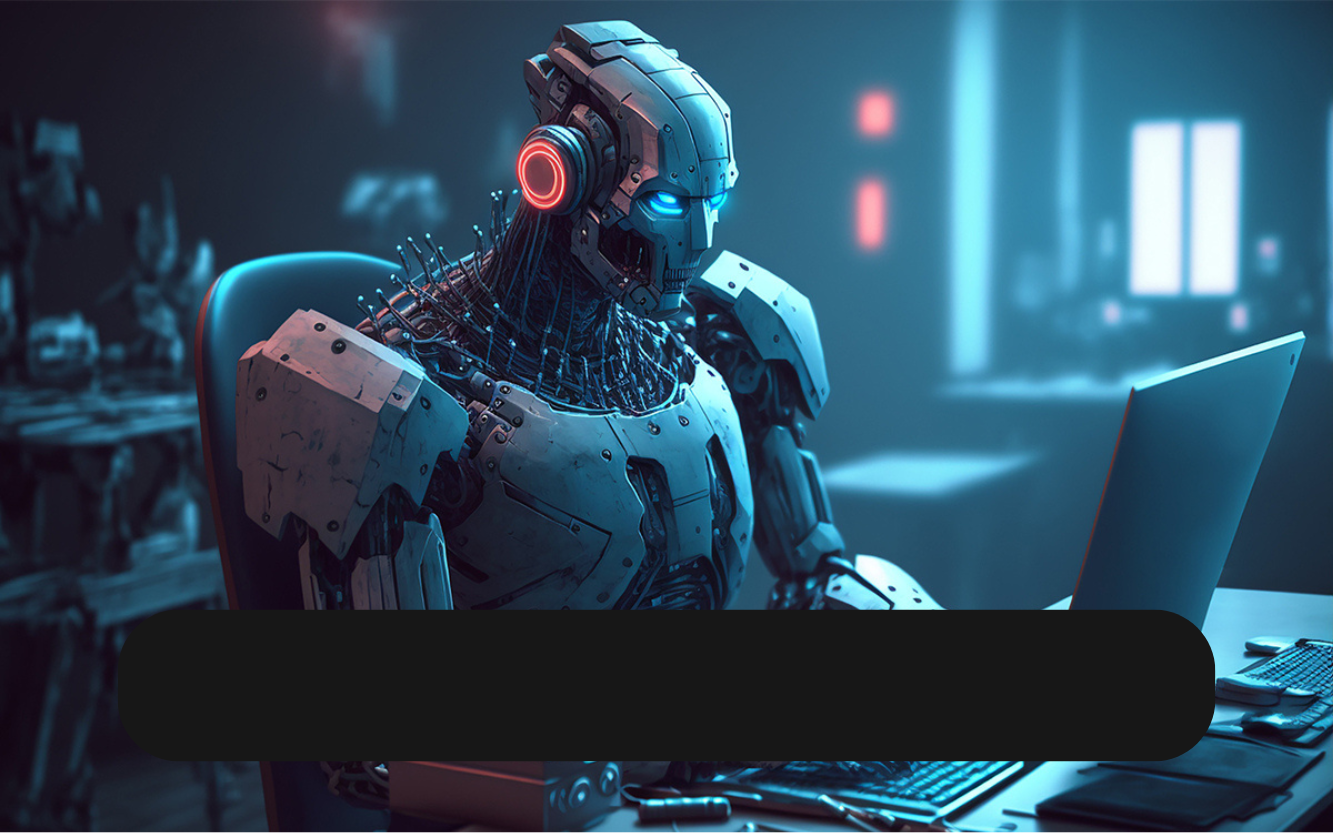
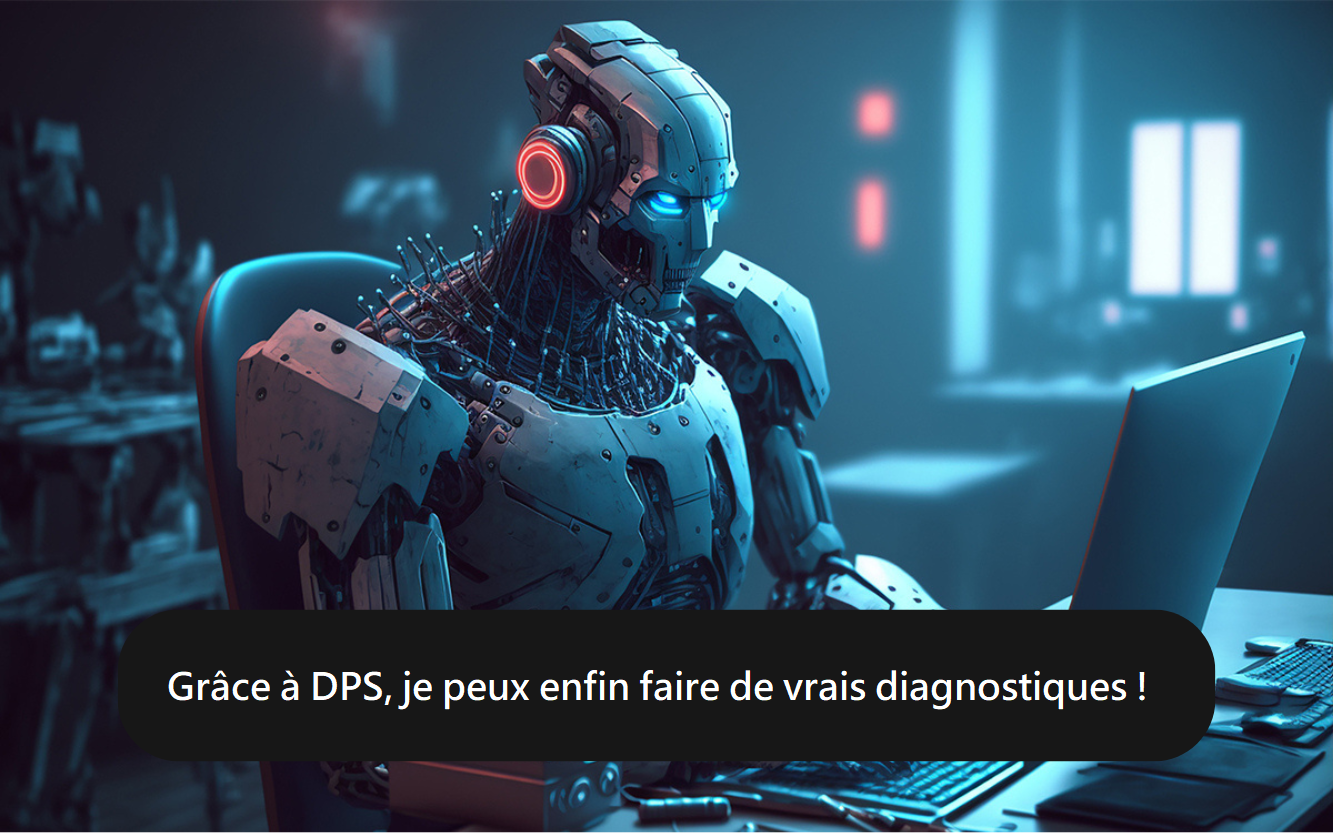
le dernier pour de vrai c'est promis

Changed region(s): [[0.123, 0.8115, 0.8612, 0.8427]]

diff --git a/assets/style.css b/assets/style.css
@@ -60,5 +60,5 @@ body{
     src: url("fonts/unicode.palatino.ttf");
 }
 /* body {
-    font-family: "Alien";
+    font-family: "SdA_Title";
 } */

diff --git a/dash_dps.py b/dash_dps.py
@@ -1,5 +1,5 @@
 from dash import Dash, html,page_container, callback, Input, Output
-import dash_core_components as dcc
+from dash_core_components import Location
 import dash_bootstrap_components as dbc
 
 # Création de l'application Dash
@@ -11,7 +11,7 @@ app._favicon = (r"\assets\favicon.ico")
 # Créez la mise en page
 app.layout = dbc.Container(
     [
-        dcc.Location(id='url'),
+        Location(id='url'),
         dbc.Row(className="g-0 gy-1"),
 
         #------------------------Nav Bar--------------------------#
@@ -30,8 +30,7 @@ app.layout = dbc.Container(
                                 html.Hr(style={"color":"white"},className="m-0 mb-1"),
                                 dbc.Row([html.H4("", className = "text-white text-center", id = "Nav_nom_page")])
                             ],
-                            className="mx-auto"),
-                        dbc.NavItem(dbc.NavLink("Informations", href="/informations",className="text-white fs-4")),
+                            className="mx-auto"),  
                         dbc.DropdownMenu(
                             children=[
                                 dbc.DropdownMenuItem("Diabète", href = "/diabete",className="text-black"),
@@ -43,8 +42,13 @@ app.layout = dbc.Container(
                             in_navbar = True,
                             align_end = True,
                             label = "Tests",
-                            className="text-light me-4 fs-4"
-                            )
+                            className="text-light fs-5"
+                            ),                    
+                        html.A(
+                            href= "/informations",
+                            children=[html.Img(src = r"\assets\images\logo_info.png", height="50px")],
+                            className="text-white fs-5 me-4"
+                            ),
                         ],
                         direction="horizontal",
                         gap=3)

diff --git a/pages/Accueil.py b/pages/Accueil.py
@@ -1,6 +1,4 @@
-from dash import Dash, html, dcc,register_page
-import pandas as pd
-import plotly.express as px
+from dash import html,register_page
 import dash_bootstrap_components as dbc
 
 # Enregistrement de la page
@@ -185,10 +183,10 @@ layout = dbc.Container([
                 dbc.Col(width = 3),
                 dbc.Col(dbc.Carousel(
                             items=[
-                                {"key": "1", "caption" : "DPS, un ami, un confident, un amour de technologie." , "src": r"/assets\images\dr_group.png"},
-                                {"key": "2", "caption" : "Avant DPS, j'avais peur de mal diagnostiquer.", "src": r"/assets\images\dr_soucis.png"},
-                                {"key": "3", "caption" : "Grâce à DPS, je peux enfin faire de vrais diagnostiques !", "src": r"/assets\images\dr_GPT.png"},
-                                {"key": "4", "caption" : "Avec DPS, la chasse aux maladies chroniques est facile.", "src": r"\assets\images\Dr_chat.png"},
+                                {"key": "1", "src": r"/assets\images\dr_group.png"},
+                                {"key": "2", "src": r"/assets\images\dr_soucis.png"},
+                                {"key": "3", "src": r"/assets\images\dr_GPT.png"},
+                                {"key": "4", "src": r"\assets\images\Dr_chat.png"},
                             ],
                             controls=True,
                             indicators=True,

diff --git a/generique_page_maladie.py b/generique_page_maladie.py
@@ -1,7 +1,6 @@
-from dash import Dash, html, dcc, Input, Output, State, callback
+from dash import html
 # from dash_dps import app
 import numpy as np
-import pandas as pd
 import plotly.express as px
 import dash_bootstrap_components as dbc
 import formulaire

diff --git a/pages/Informations.py b/pages/Informations.py
@@ -1,6 +1,4 @@
-from dash import Dash, html, dcc,register_page
-import pandas as pd
-import plotly.express as px
+from dash import html, register_page
 import dash_bootstrap_components as dbc
 
 # Enregistrement de la page

diff --git a/pages/Coeur.py b/pages/Coeur.py
@@ -1,5 +1,4 @@
 from dash import register_page, callback, Input, Output, State, html, ALL
-import dash_bootstrap_components as dbc
 import generique_page_maladie
 import pandas as pd
 

diff --git a/pages/Foie.py b/pages/Foie.py
@@ -1,5 +1,4 @@
 from dash import register_page, callback, Input, Output, State, html, ALL
-import dash_bootstrap_components as dbc
 import generique_page_maladie
 import pandas as pd
 

diff --git a/pages/Reins.py b/pages/Reins.py
@@ -1,5 +1,4 @@
 from dash import register_page, callback, Input, Output, State, html, ALL
-import dash_bootstrap_components as dbc
 import generique_page_maladie
 import pandas as pd
 

diff --git a/formulaire.py b/formulaire.py
@@ -1,6 +1,5 @@
-from dash import Dash, html
+from dash import html
 import pandas as pd
-import plotly.express as px
 import dash_bootstrap_components as dbc
 import os
 
